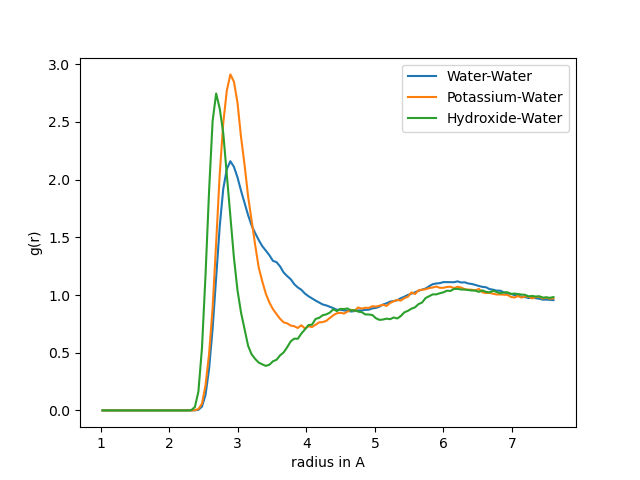
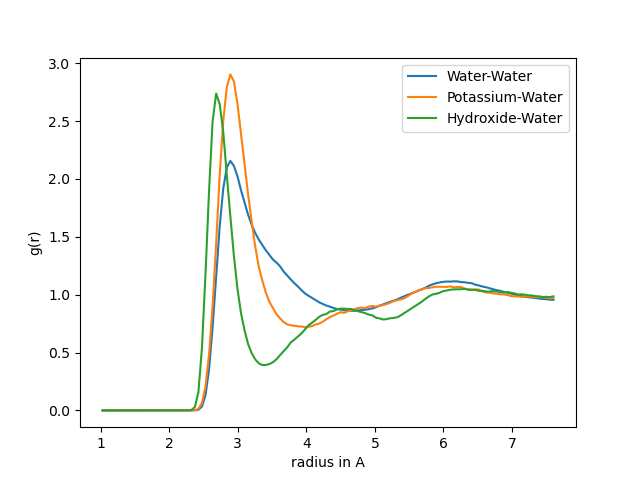
redo

diff --git a/post-processing scripts/KOH systems/mpi_python.py b/post-processing scripts/KOH systems/mpi_python.py
@@ -12,6 +12,7 @@ from mpi4py import MPI
 import time
 import os
 import h5py
+import ase
 
 class Prot_Hop:
     """MPI supporting postprocesses class for NVT VASP simulations of aqueous KOH."""
@@ -103,6 +104,11 @@ class Prot_Hop:
                 # load new forces and add to old array
                 force = data_f['forces']
                 self.force = np.concatenate((self.force, force), axis=0)
+        
+        # write origional vaspout.h5 to wrapped .xyz trajectory file if file does not exist
+        path = self.folder + '/traj_pure_wrapped.xyz'
+        if os.path.exists(path) is False:
+            self.write_to_xyz(data_s['elements'], self.pos_all % self.L, path)
 
         self.t = np.arange(self.pos_all.shape[0])*self.dt
         
@@ -190,6 +196,18 @@ class Prot_Hop:
         if self.rank == 0 and self.verbose is True:
             print('Time after communication', time.time() - self.tstart, flush=True)
 
+    def write_to_xyz(self, types, positions, name):
+        if self.verbose is True:
+            print(r'trajectory file is created and written', flush=True)
+        
+        # loop over all configurations and assign ase.Atoms state
+        configs = [None]*positions.shape[0]
+        for i in range(positions.shape[0]):
+            configs [i] = ase.Atoms(types, positions[i, :, :])
+        
+        # write with overwrite capability
+        ase.io.write(name, configs, append='wb')
+             
     def recognize_molecules(self, n):
         """
         Find the index of the Oxygen beloging to the OH- or H2O.
@@ -297,7 +315,7 @@ class Prot_Hop:
                 self.H2O[n, :, :] = self.pos_O[n, self.H2O_i[n, :], :]+ self.L*self.H2O_shift
                 self.OH_i_s = OH_i  # always sort after reaction or initiation to have a cheap check lateron.
 
-    def loop_timesteps_all(self, n_samples=10): 
+    def loop_timesteps_all(self, n_samples=1): 
         """This function loops over all timesteps and tracks all over time properties
         
         The function tracks calls the molecule recognition function and the rdf functions when needed.
@@ -609,7 +627,7 @@ class Prot_Hop:
                     np.savez(path + r"/output.npz",
                             OH_i=self.OH_i, OH=self.OH, H2O_i=self.H2O_i, H2O=self.H2O,  # tracking OH-
                             r_rdf=self.r_cent, rdf_H2OH2O=self.rdf_H2OH2O, rdf_OHH2O=self.rdf_OHH2O, rdf_KH2O=self.rdf_KH2O,
-                            rdf_HOH=self.rdf_HOH, rdf_HK=self.rdf_HK, rdf_HH=self.rdf_HH, rdf_KO_all=self.rdf_KO_al, rdf_OO_all=self.rdf_OO_all)  # sensing the rdf
+                            rdf_HOH=self.rdf_HOH, rdf_HK=self.rdf_HK, rdf_HH=self.rdf_HH, rdf_KO_all=self.rdf_KO_all, rdf_OO_all=self.rdf_OO_all)  # sensing the rdf
                 else:
                     np.savez(path + r"/output.npz",
                             OH_i=self.OH_i, OH=self.OH, H2O_i=self.H2O_i, H2O=self.H2O,  # tracking OH-
@@ -749,7 +767,7 @@ class Prot_Hop:
 # Traj = Prot_Hop(r"/mnt/c/Users/vlagerweij/Documents/TU jaar 6/Project KOH(aq)/Repros/RPBE_Production/MLMD/100ps_Exp_Density/i_1")
 # Traj = Prot_Hop(r"/Users/vlagerweij/Documents/TU jaar 6/Project KOH(aq)/Repros/RPBE_Production/MLMD/100ps_Exp_Density/i_1")
 # Traj = Prot_Hop(r"/Users/vlagerweij/Documents/TU jaar 6/Project KOH(aq)/Repros/RPBE_Production/AIMD/10ps/i_1/")
-# Traj = Prot_Hop(r"/Users/vlagerweij/Documents/TU jaar 6/Project KOH(aq)/Repros/Quantum_to_Transport/post-processing scripts/KOH systems/test_output/", verbose=True)
-Traj = Prot_Hop(r"/Users/vlagerweij/Documents/TU jaar 6/Project KOH(aq)/Repros/Quantum_to_Transport/post-processing scripts/KOH systems/test_output/longest_up_till_now", verbose=True)
+Traj = Prot_Hop(r"/Users/vlagerweij/Documents/TU jaar 6/Project KOH(aq)/Repros/Quantum_to_Transport/post-processing scripts/KOH systems/test_output/", verbose=True, cheap=False)
+# Traj = Prot_Hop(r"/Users/vlagerweij/Documents/TU jaar 6/Project KOH(aq)/Repros/Quantum_to_Transport/post-processing scripts/KOH systems/test_output/longest_up_till_now", verbose=True)
 
 # Traj = Prot_Hop(r"/home/jelle/simulations/RPBE_Production/6m/AIMD/i_1/part_1/")

diff --git a/post-processing scripts/KOH systems/testcase.py b/post-processing scripts/KOH systems/testcase.py
@@ -1,10 +1,18 @@
 import numpy as np
+from ase import Atoms
 
-# Create an empty zero-length array
-N_OH = 3
-OH_0 = np.array([1, 2, 3])
-OH_i = np.array([1, 2, 3, 4])
+# Example position arrays for multiple timesteps
+positions_combined = np.array([[[0, 0, 0], [1, 1, 1], [2, 2, 2]],
+                               [[0.1, 0.1, 0.1], [1.1, 1.1, 1.1], [2.1, 2.1, 2.1]],
+                               [[0.2, 0.2, 0.2], [1.2, 1.2, 1.2], [2.2, 2.2, 2.2]]])
 
-# Append items to the array
-c = np.setdiff1d(OH_i, OH_0)
-print(c)
+# Concatenate position arrays for all timesteps along the first axis
+# positions = np.concatenate(positions_combined, axis=0)
+
+# Example atomic symbols
+symbols = ['H', 'H', 'H']
+
+# Create an ASE Atoms object directly from combined position array
+atoms = Atoms(symbols, positions=positions_combined)
+
+# Now 'atoms' contains Atoms objects for all timesteps

diff --git a/post-processing scripts/KOH systems/xdatcar2xyz.py b/post-processing scripts/KOH systems/xdatcar2xyz.py
@@ -8,8 +8,8 @@ Created on Mon Sep 18 14:01:49 2023
 import os
 from ase.io import read, write
 
-# path = '../../../RPBE_Production/MLMD/10ps_Exp_Density/'
-path = '../RPBE_Production/6m/AIMD/'
+path = '../RPBE_Production/MLMD/100ps_Exp_Density/'
+# path = '../RPBE_Production/6m/AIMD/'
 folder = ['i_1']
 
 for i in range(len(folder)):
